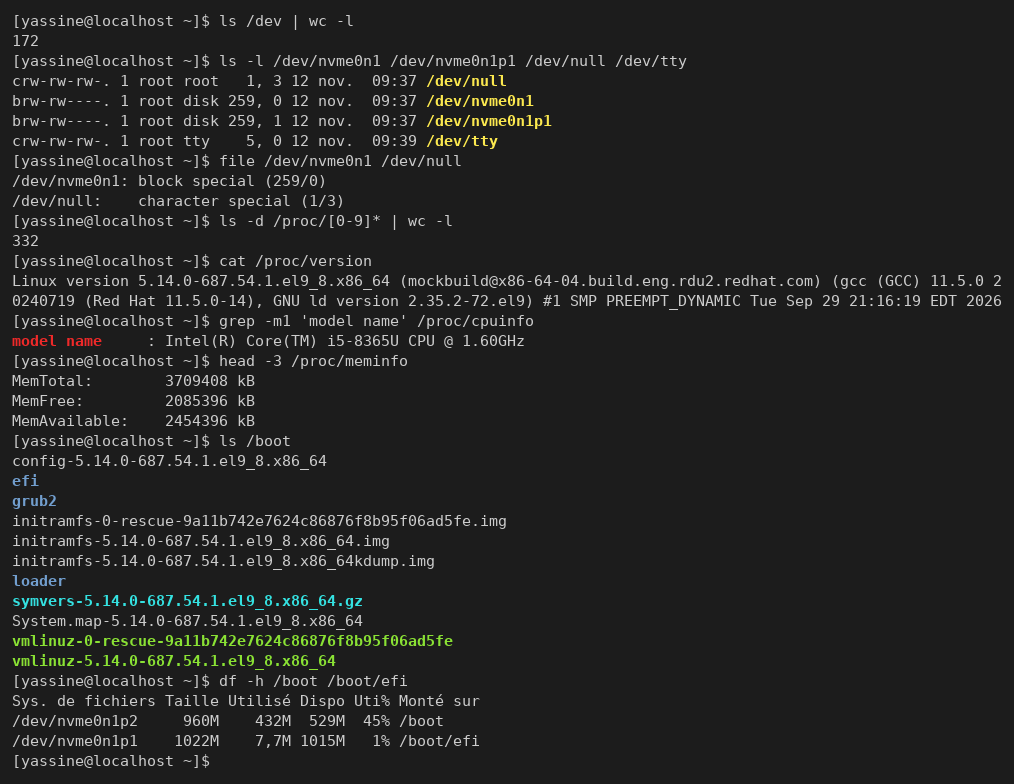
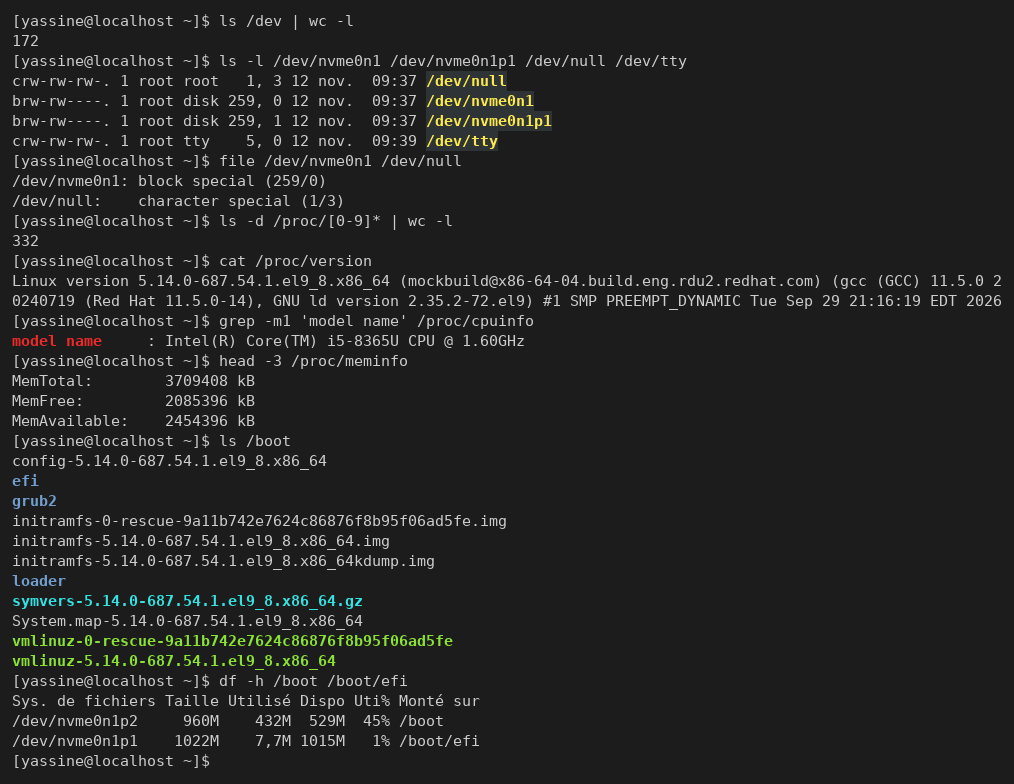
TP1 - Partie 4 (terminal et aide en ligne)
- Q2, Q3-4, Q5, Q9 : captures des commandes exécutées sur la VM
- Q1, Q3, Q4 (mandb), Q6, Q7 : emplacements pour les captures manuelles
- Rendu des captures : couleurs de fond et vidéo inverse (cal, ls)

Changed region(s): [[0.3974, 0.0918, 0.5503, 0.2143]]

diff --git a/TP1/README.md b/TP1/README.md
@@ -77,6 +77,7 @@ L'utilisateur `yassine` appartient au groupe `wheel`, ce qui l'autorise à utili
 | 15 | Supprimer TP_Linux et son contenu en une commande | `rm -r ~/TP_Linux` : `-r` (récursif) supprime le dossier, ses sous-dossiers et leurs fichiers. Juste avant, `cat` confirme la modification de Q14 (`Modifié avec nano`). Après : `ls -d TP_Linux` → `impossible d'accéder à 'TP_Linux': Aucun fichier ou dossier de ce type` |
 
 ![Question 15](captures/p2-q15.png)
+
 ## Partie 3 : Découverte du FHS (Filesystem Hierarchy Standard)
 
 | N° | Question | Réponse |
@@ -124,3 +125,50 @@ L'utilisateur `yassine` appartient au groupe `wheel`, ce qui l'autorise à utili
 | 16 | Contenu de /boot, importance au démarrage | Les fichiers nécessaires au démarrage : le noyau `vmlinuz-5.14.0-…`, l'`initramfs` (mini-système chargé en mémoire avec les pilotes nécessaires pour monter `/`), le chargeur GRUB (`grub2/`, entrées dans `loader/`), `config` et `System.map` du noyau, et `efi/` (partition EFI). Sans `/boot`, la machine ne peut pas démarrer. `df -h` → `/boot` sur `/dev/nvme0n1p2` (960 Mo) et `/boot/efi` sur `/dev/nvme0n1p1` (1022 Mo) |
 
 ![Partie 3, questions 14 à 16](captures/p3-q14-16.png)
+
+## Partie 4 : Prise en main du terminal et de l'aide en ligne
+
+| N° | Question | Réponse |
+|---|---|---|
+| 1 | `tty` en console texte (`Ctrl+Alt+F3`) puis dans le terminal graphique | En console texte, `tty` affiche `/dev/tty3` : un **terminal virtuel** du noyau, lié à l'écran et au clavier. Dans le terminal graphique, `tty` affiche `/dev/pts/0` : un **pseudo-terminal** créé par l'application Terminal (même chose pour une session SSH). Sur RHEL 9, `Ctrl+Alt+F1` ramène à l'écran de connexion et `Ctrl+Alt+F2` à la session graphique |
+
+![Partie 4, question 1 : tty en console et en graphique](captures/p4-q01.png)
+
+| N° | Question | Réponse |
+|---|---|---|
+| 2 | Utilisateur, shell, répertoire personnel ; signification de `$` et `#` | `whoami` → `yassine` ; `echo $SHELL` → `/bin/bash` ; `echo $HOME` → `/home/yassine`. `id` confirme l'appartenance au groupe `wheel` (droit d'utiliser `sudo`). À la fin de l'invite, `$` indique un **utilisateur normal** et `#` indique **root** (super-utilisateur), par exemple après `sudo -i` |
+
+![Partie 4, question 2](captures/p4-q02.png)
+
+| N° | Question | Réponse |
+|---|---|---|
+| 3 | Rechercher dans `man ls`, quitter, sections du manuel | Dans `man`, on tape `/mot` puis Entrée pour chercher, `n` pour l'occurrence suivante, `N` pour la précédente, et `q` pour quitter. Les **sections** séparent les pages qui portent le même nom : la section 1 = commandes utilisateur, la section 5 = formats de fichiers de configuration (8 = commandes d'administration). `man 1 passwd` décrit la **commande** `passwd` (*update user's authentication tokens*) ; `man 5 passwd` décrit le **fichier** `/etc/passwd` (*password file*) |
+| 4 | `ls --help` contre `man ls` ; `man -k partition` | `ls --help` affiche directement un résumé court, en français (164 lignes) ; `man ls` ouvre la page de manuel complète (245 lignes), en anglais, page par page. `man -k partition` (et `whatis passwd`) → `rien d'adéquat` : l'index des pages de manuel n'est pas encore construit. Il faut d'abord lancer `sudo mandb` (voir la capture ci-dessous) |
+
+![Partie 4, questions 3 et 4](captures/p4-q03-04.png)
+
+![Partie 4, question 3 : recherche dans man ls](captures/p4-q03-man.png)
+
+![Partie 4, question 4 : sudo mandb puis man -k partition](captures/p4-q04-mandb.png)
+
+| N° | Question | Réponse |
+|---|---|---|
+| 5 | `type` et `which` sur cd, ls, pwd ; builtin, alias, exécutable | `type` → `cd` et `pwd` sont des **primitives du shell** (builtin) ; `ls` est un **alias** vers `ls --color=auto`. `which` cherche des **fichiers exécutables** dans le `PATH` → `/usr/bin/ls`, `/usr/bin/cd`, `/usr/bin/pwd` (sur RHEL, `which` est lui-même un alias qui affiche aussi les alias). `type -a pwd` montre les deux : la primitive est prioritaire sur `/usr/bin/pwd`. Différences : une **primitive** est intégrée à bash et s'exécute sans créer de processus (`cd` doit l'être pour changer le dossier du shell lui-même) ; un **alias** est un raccourci texte remplacé avant l'exécution ; un **exécutable** est un fichier du disque lancé dans un nouveau processus |
+
+![Partie 4, question 5](captures/p4-q05.png)
+
+| N° | Question | Réponse |
+|---|---|---|
+| 6 | Complétion avec Tab | `cd /usr/sh` + `Tab` complète en `cd /usr/share/` : une seule possibilité, donc la complétion est immédiate. `sys` + `Tab` `Tab` : plusieurs commandes commencent par `sys`, donc rien n'est complété au premier `Tab` et le second affiche la liste des possibilités (`sysctl`, `systemctl`, `systemd-analyze`…) |
+| 7 | `history`, `!!`, `!n`, `Ctrl+R` | `history` affiche les commandes numérotées ; `!!` relance la dernière commande ; `!n` relance la commande numéro `n` ; `Ctrl+R` lance une recherche inversée : on tape un morceau de commande, bash propose la plus récente qui correspond, Entrée l'exécute |
+| 8 | Raccourcis clavier | `Ctrl+C` : interrompt la commande en cours (signal SIGINT) · `Ctrl+L` : efface l'écran (comme `clear`) · `Ctrl+A` : curseur au début de la ligne · `Ctrl+E` : curseur à la fin de la ligne · `Ctrl+U` : efface du curseur jusqu'au début de la ligne · `Ctrl+D` : fin de saisie ; sur une ligne vide, ferme le shell (déconnexion) |
+
+![Partie 4, question 6 : complétion](captures/p4-q06.png)
+
+![Partie 4, question 7 : historique](captures/p4-q07.png)
+
+| N° | Question | Réponse |
+|---|---|---|
+| 9 | Date, calendrier, durée depuis le démarrage | `date` → `jeu. 12 nov. 2026 10:46:17 +00` (la VM est réglée sur le fuseau UTC) ; `cal` → calendrier de novembre 2026, le jour courant (12) en surbrillance ; `uptime` → heure actuelle, `up 1:08` (allumée depuis 1 h 08), `1 user` connecté, et charge moyenne sur 1, 5 et 15 minutes (`0,10, 0,04, 0,01`) |
+
+![Partie 4, question 9](captures/p4-q09.png)
